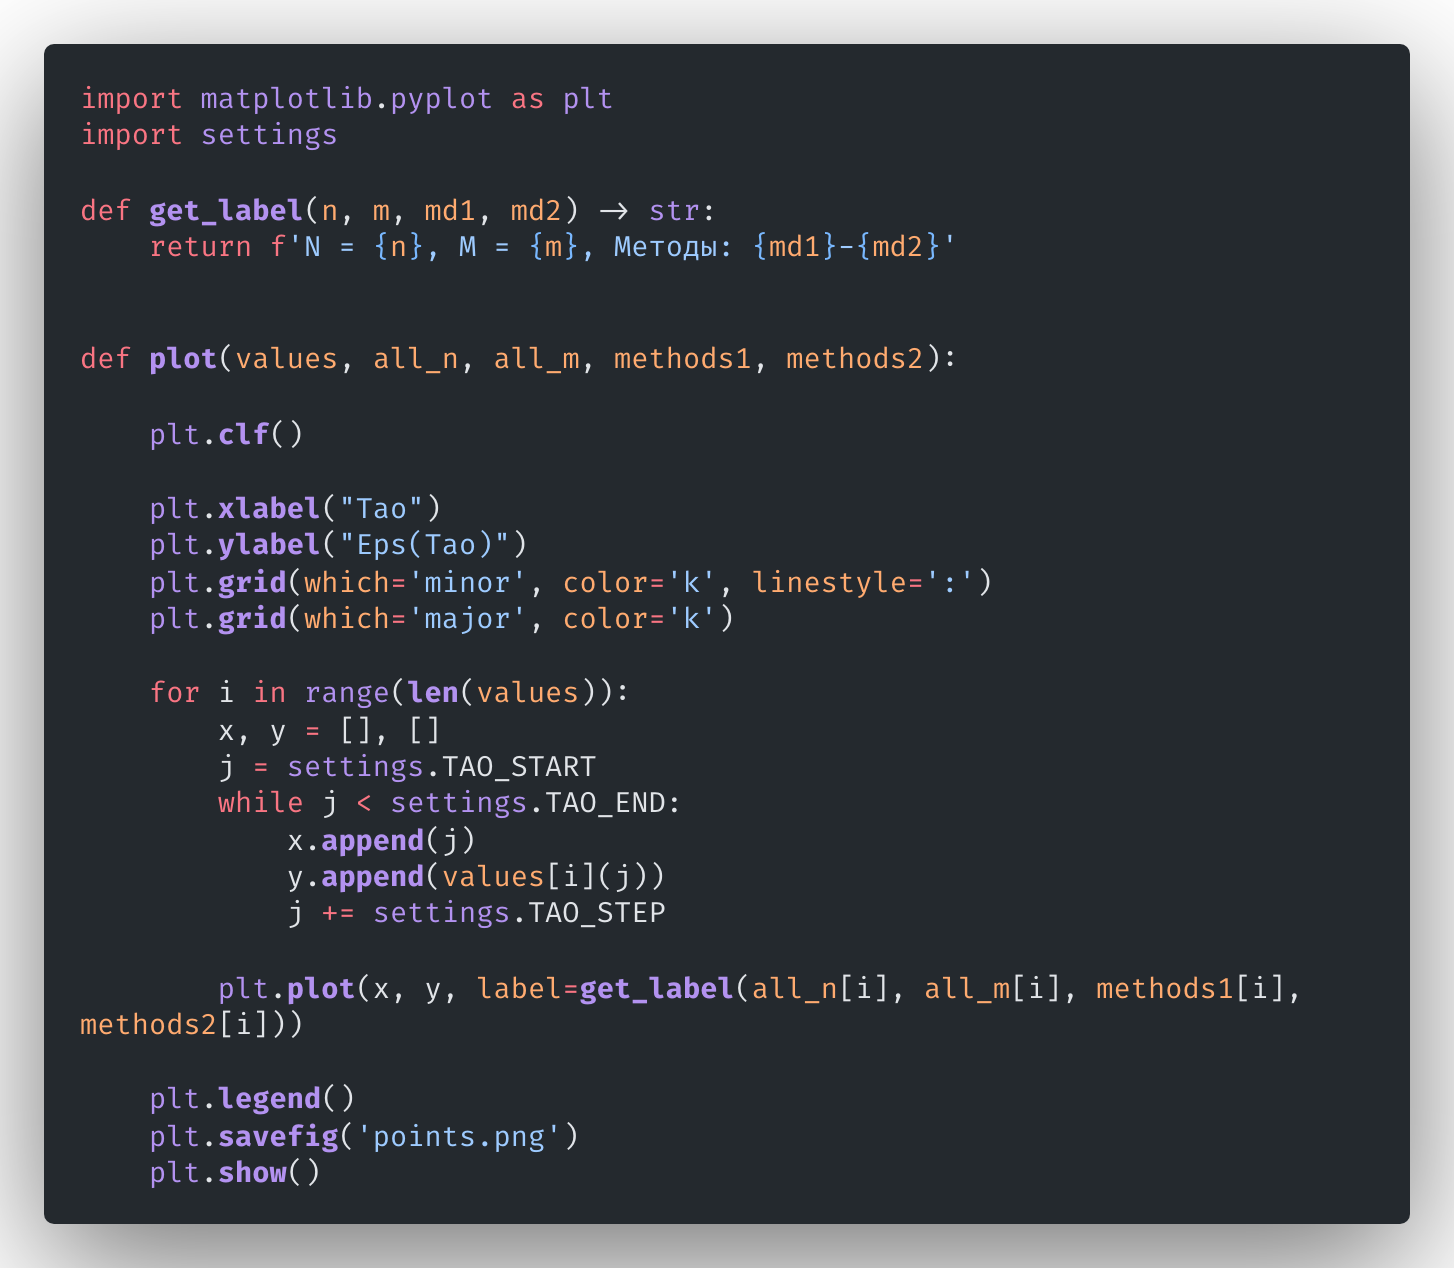
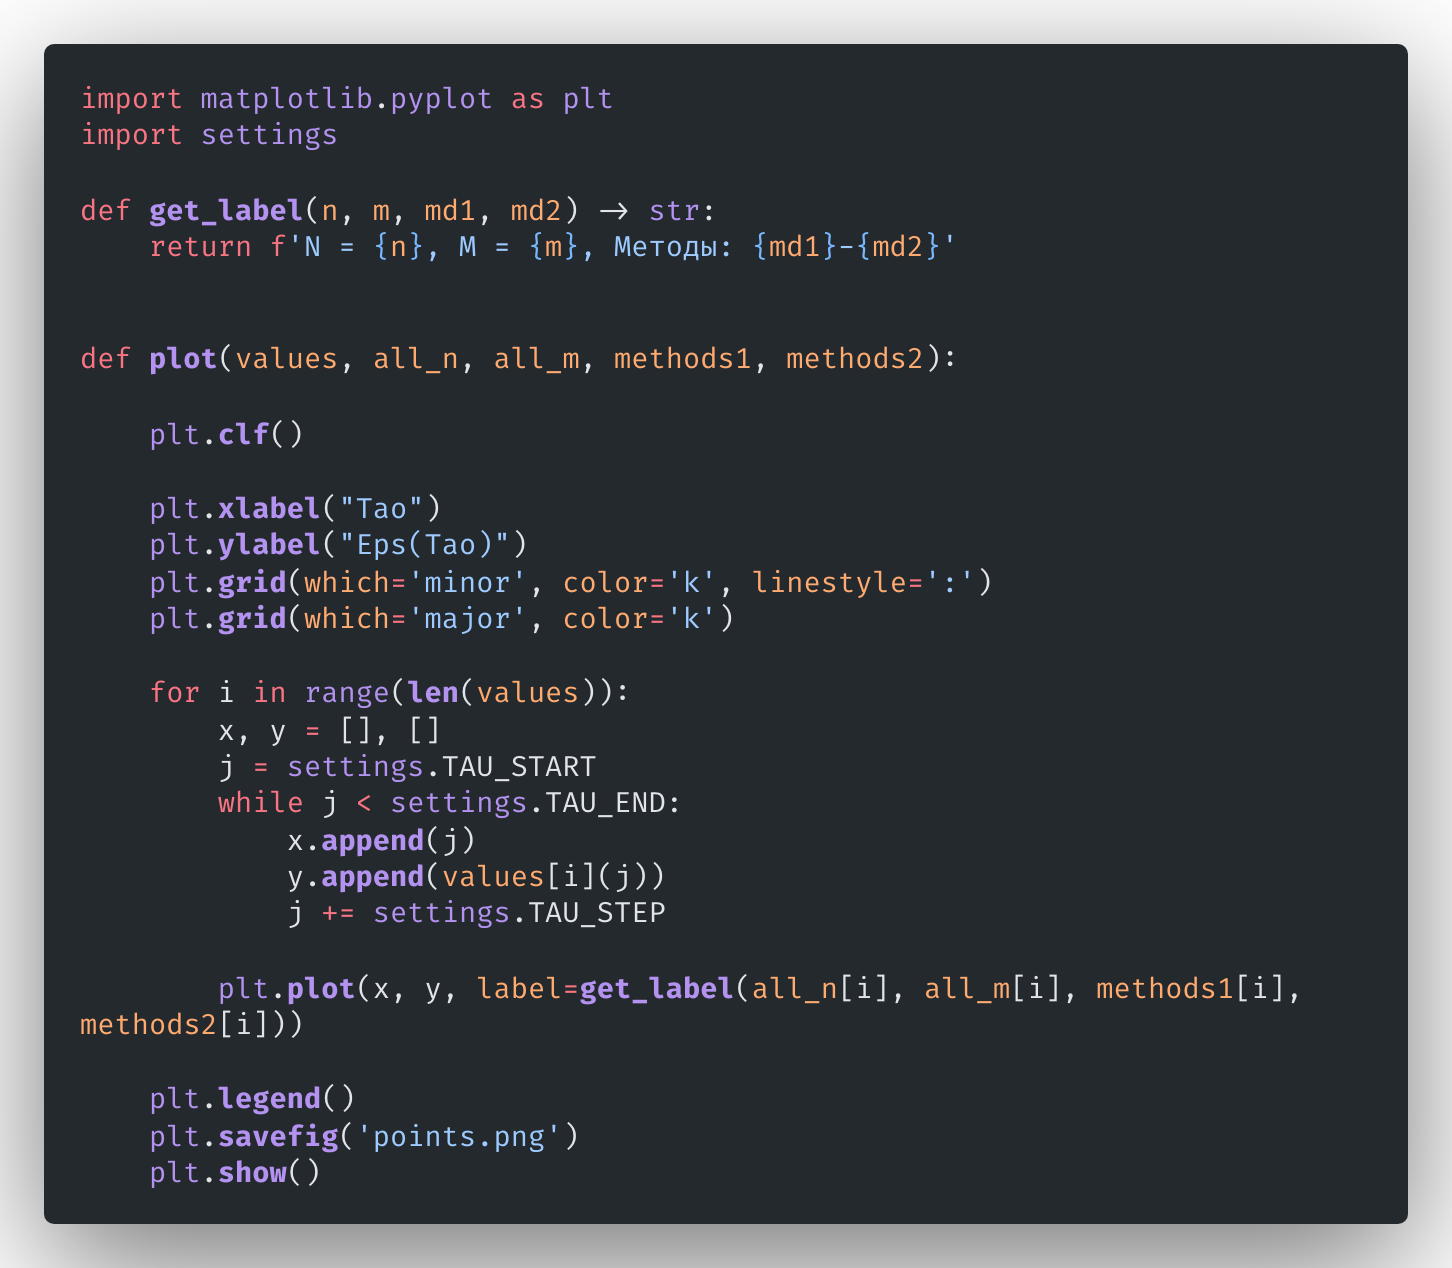
Update

diff --git a/lab_05/solve.py b/lab_05/solve.py
@@ -24,26 +24,27 @@ class Method(Enum):
 
 
 class Calculator(object):
-    def __init__(self, lm: List[List[float]], n: List[int], fn: List[Method]):
-        self.lm = lm
+    def __init__(self, boundaries: List[List[float]], n: int, m: int, methods: List[Method]):
+        self.boundaries = boundaries
         self.n = n
-        self.f1 = fn[0].get_func()
-        self.f2 = fn[1].get_func()
+        self.m = m
+        self.f1 = methods[0].get_func()
+        self.f2 = methods[1].get_func()
 
     def __call__(self, p: float) -> float:
         f = Calculator.__integrated(p)
 
         def inner(x): return self.f2(
             lambda val1: f(x, val1),
-            self.lm[1][0],
-            self.lm[1][1],
-            self.n[1])
+            self.boundaries[1][0],
+            self.boundaries[1][1],
+            self.m)
 
         def integ(): return self.f1(
             inner,
-            self.lm[0][0],
-            self.lm[0][1],
-            self.n[0])
+            self.boundaries[0][0],
+            self.boundaries[0][1],
+            self.n)
 
         return integ()
 

diff --git a/lab_05/plot.py b/lab_05/plot.py
@@ -2,7 +2,7 @@ import matplotlib.pyplot as plt
 import settings
 
 def get_label(n, m, md1, md2) -> str:
-    return f'N = {n}, M = {m}, Методы: {md1}-{md2}'
+    return f'N, M, Методы: ({n} : {m} : {md1}-{md2})'
 
 
 def plot(values, all_n, all_m, methods1, methods2):
@@ -16,11 +16,11 @@ def plot(values, all_n, all_m, methods1, methods2):
 
     for i in range(len(values)):
         x, y = [], []
-        j = settings.TAO_START
-        while j < settings.TAO_END:
+        j = settings.TAU_START
+        while j < settings.TAU_END:
             x.append(j)
             y.append(values[i](j))
-            j += settings.TAO_STEP
+            j += settings.TAU_STEP
 
         plt.plot(x, y, label=get_label(all_n[i], all_m[i], methods1[i], methods2[i]))
 

diff --git a/lab_05/main.py b/lab_05/main.py
@@ -22,10 +22,10 @@ def main():
         methods2.append(solve.Method(
             int(input('Выберите "внутренний" метод интегрирования: (0 - Гаусс, 1 - Симпсон): '))))
 
-        lm = [[0, pi / 2], [0, pi / 2]]
+        boundaries = [[0, pi / 2], [0, pi / 2]]
 
         values.append(solve.Calculator(
-            lm, [all_n[-1], all_m[-1]], [methods1[-1], methods2[-1]]))
+            boundaries, all_n[-1], all_m[-1], [methods1[-1], methods2[-1]]))
 
         print(f'Результат (тау = {p:.2f}): {values[-1](p):.7f}')
 

diff --git a/lab_05/settings.py b/lab_05/settings.py
@@ -1,3 +1,3 @@
-TAO_START = 0.05
-TAO_END = 10.0
-TAO_STEP = 0.05
+TAU_START = 0.05
+TAU_END = 10.0
+TAU_STEP = 0.05
